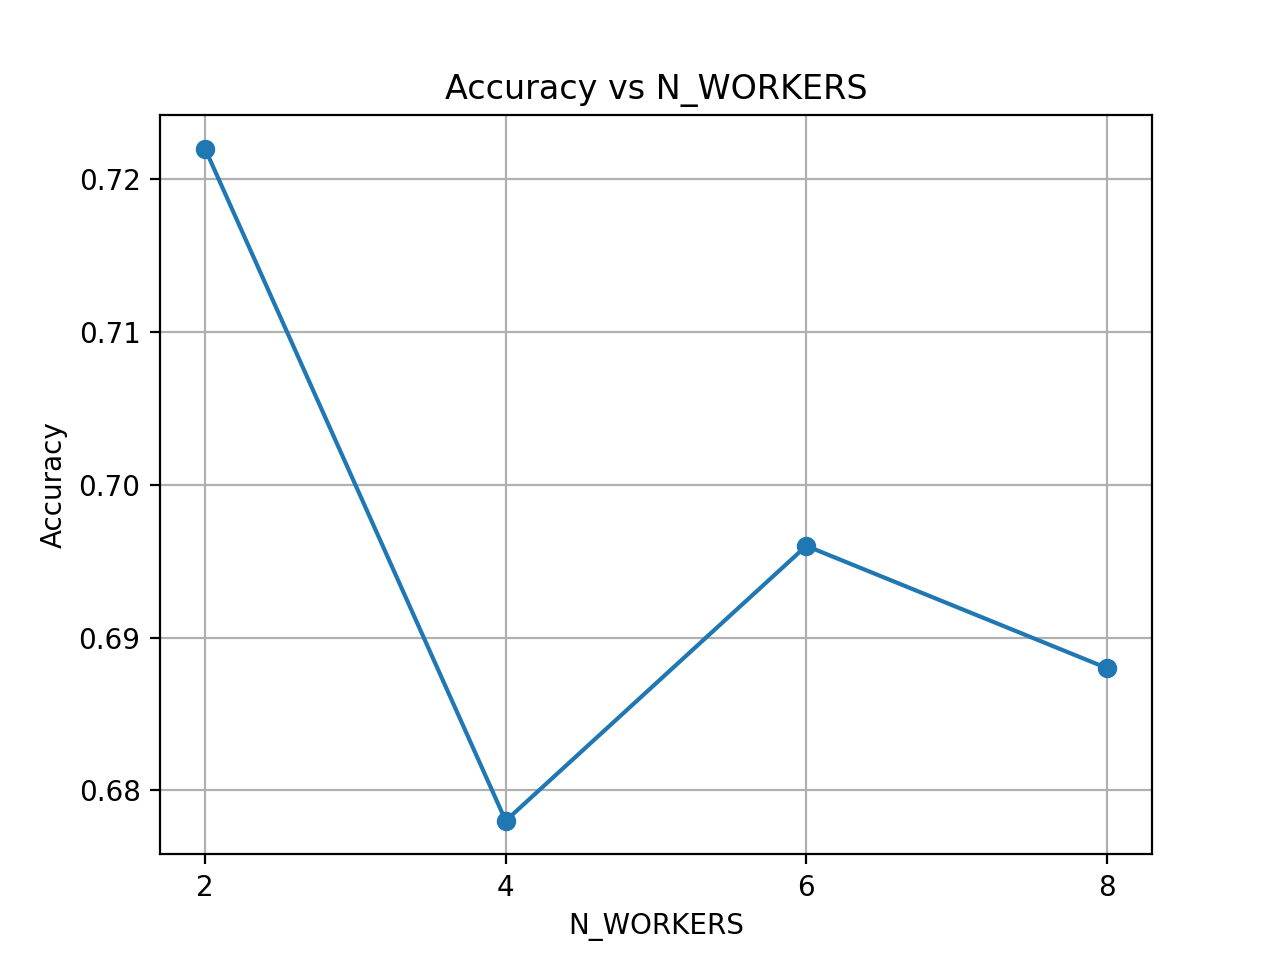
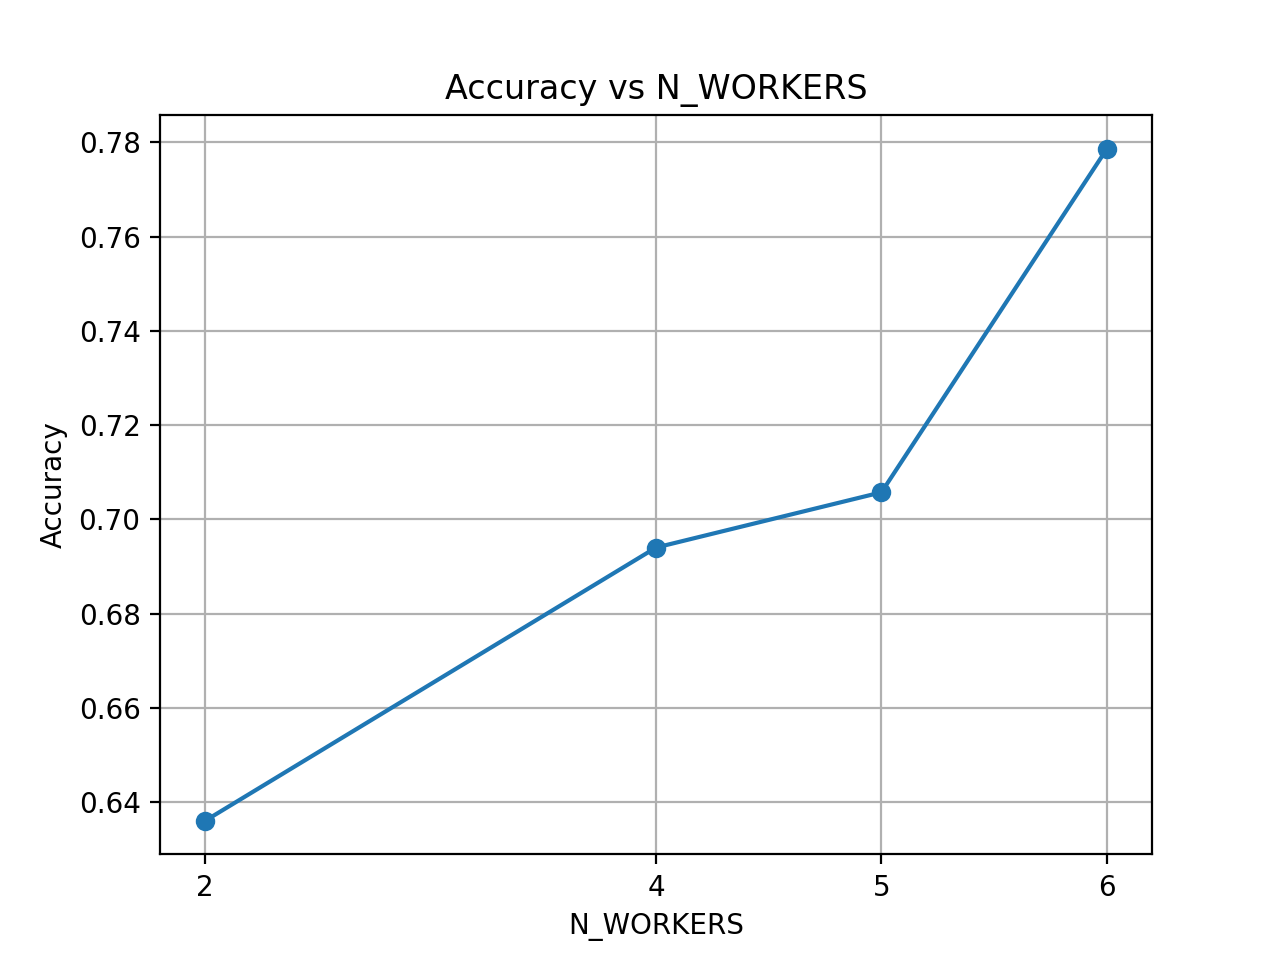
ddd

diff --git a/java/src/main/java/pso/Simulation.java b/java/src/main/java/pso/Simulation.java
@@ -4,6 +4,7 @@ import java.util.ArrayList;
 import java.util.List;
 import java.io.InputStream;
 import java.util.logging.LogManager;
+import org.nd4j.linalg.factory.Nd4j;
 
 import utils.*; 
 
@@ -16,6 +17,7 @@ public class Simulation {
 
         System.out.println("============== Simulation Start ======================");
         System.out.println("Starting Coordinator ...");
+        System.out.println("ND4J backend = " + Nd4j.getBackend());  // says the hardware this is running on
 
         Coordinator coordinator = new Coordinator();
         Thread coordinatorThread = new Thread(coordinator, "coordinator");

diff --git a/run_experiments.py b/run_experiments.py
@@ -7,7 +7,10 @@ from pathlib import Path
 
 import matplotlib.pyplot as plt
 
-WORKERS_LIST = [5, 10, 15, 20]
+WORKERS_LIST = [2, 4, 5, 6]
+WORKERS_LIST = [2, 4, 6, 8]
+
+# WORKERS_LIST = [5, 10, 15, 20]
 # WORKERS_LIST = [5, 10, 15]
 # WORKERS_LIST = [15]
 

diff --git a/ReadMe.md b/ReadMe.md
@@ -291,7 +291,7 @@ Input input-weights-topic:
             - number of threads on its core: Thread(s) per core: 2
 
     - nvidia-smi -l 1
-
+    - <code>nvidia-smi -q</code>  // see gpu specs
  - Performance Theory:
     - True parallelism comes from CPU cores
     - Swap = “RAM overflow to disk” (very slow), if Swap and RAM is huge => problem
